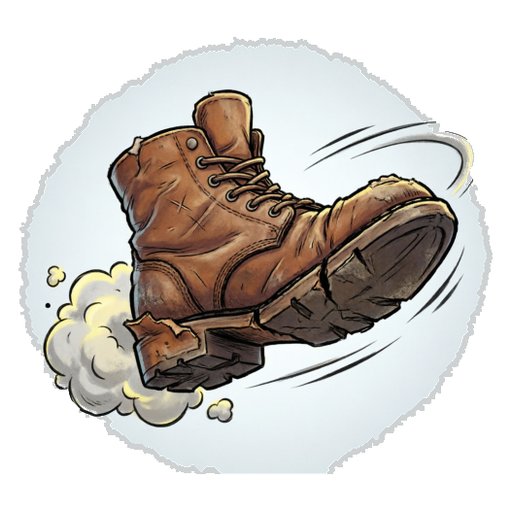
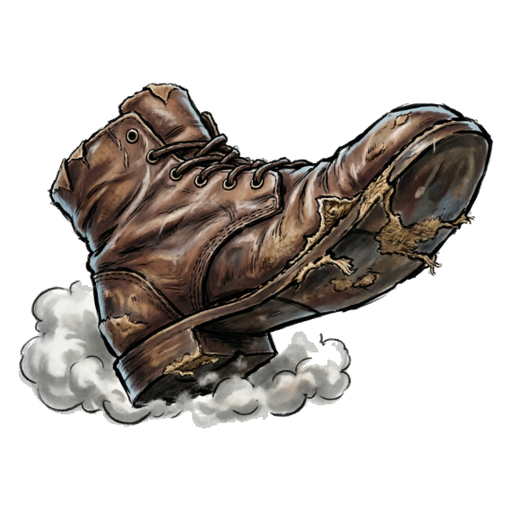
feat: медленный полёт, стопки подарков, новые руки и подарки

diff --git a/src/styles/gift-fly.css b/src/styles/gift-fly.css
@@ -15,7 +15,7 @@
   width: 0;
   height: 0;
   transform: translate(-50%, -50%);
-  animation: giftFade 60s linear forwards;
+  animation: giftFade 150s linear forwards;
 }
 
 /* --- сам подарок --- */
@@ -25,11 +25,11 @@
   left: 0;
   top: 0;
   transform: translate(-50%, -50%);
-  animation: giftFly var(--fly-ms, 1500ms) cubic-bezier(.25, .8, .3, 1) both;
+  animation: giftFly var(--fly-ms, 2400ms) cubic-bezier(.25, .8, .3, 1) both;
 }
 
 .gift-fly--thrown .gift-fly__body {
-  animation: giftThrow var(--fly-ms, 1500ms) cubic-bezier(.3, .7, .4, 1) both;
+  animation: giftThrow var(--fly-ms, 2400ms) cubic-bezier(.3, .7, .4, 1) both;
 }
 
 .gift-fly__icon {
@@ -103,7 +103,7 @@
   margin: -3px 0 0 -3px;
   border-radius: 50%;
   background: radial-gradient(circle, #fff6d5 0%, rgba(255, 200, 90, .85) 45%, transparent 70%);
-  animation: giftSpark var(--fly-ms, 1500ms) ease-out both;
+  animation: giftSpark var(--fly-ms, 2400ms) ease-out both;
 }
 .gift-fly__spark:nth-child(2) { animation-delay: 70ms;  opacity: .75; }
 .gift-fly__spark:nth-child(3) { animation-delay: 150ms; opacity: .5; }
@@ -161,12 +161,12 @@
 /* --- подарок лежит рядом и тихо покачивается --- */
 
 .gift-fly.is-landed .gift-fly__body {
-  animation: giftFly var(--fly-ms, 1500ms) cubic-bezier(.25, .8, .3, 1) both,
-             giftRest 3.2s ease-in-out var(--fly-ms, 1500ms) infinite;
+  animation: giftFly var(--fly-ms, 2400ms) cubic-bezier(.25, .8, .3, 1) both,
+             giftRest 3.2s ease-in-out var(--fly-ms, 2400ms) infinite;
 }
 .gift-fly--thrown.is-landed .gift-fly__body {
-  animation: giftThrow var(--fly-ms, 1500ms) cubic-bezier(.3, .7, .4, 1) both,
-             giftRest 3.2s ease-in-out var(--fly-ms, 1500ms) infinite;
+  animation: giftThrow var(--fly-ms, 2400ms) cubic-bezier(.3, .7, .4, 1) both,
+             giftRest 3.2s ease-in-out var(--fly-ms, 2400ms) infinite;
 }
 
 @keyframes giftRest {
@@ -177,7 +177,7 @@
 /* --- через минуту тает --- */
 
 @keyframes giftFade {
-  0%, 92%  { opacity: 1; }
+  0%, 95%  { opacity: 1; }
   100%     { opacity: 0; transform: translate(-50%, -70%) scale(.7); }
 }
 
@@ -200,7 +200,7 @@
   margin: -31px 0 0 -31px;
   border-radius: 50%;
   background: radial-gradient(circle, rgba(255, 235, 190, .45) 0%, transparent 68%);
-  animation: giftHalo var(--fly-ms, 1500ms) ease-out both;
+  animation: giftHalo var(--fly-ms, 2400ms) ease-out both;
   pointer-events: none;
 }
 @keyframes giftHalo {
@@ -215,7 +215,7 @@
   width: 8px;
   height: 8px;
   margin: -4px 0 0 -4px;
-  animation: giftSparkTrail var(--fly-ms, 1500ms) ease-out both;
+  animation: giftSparkTrail var(--fly-ms, 2400ms) ease-out both;
 }
 .gift-fly__spark:nth-child(2) { animation-delay: 120ms; opacity: .8; }
 .gift-fly__spark:nth-child(3) { animation-delay: 250ms; opacity: .55; }
@@ -246,7 +246,7 @@
   margin-left: -20px;
   border-radius: 50%;
   background: radial-gradient(ellipse, rgba(0, 0, 0, .5), transparent 70%);
-  animation: giftShadow var(--fly-ms, 1500ms) ease-in both;
+  animation: giftShadow var(--fly-ms, 2400ms) ease-in both;
 }
 @keyframes giftShadow {
   0%   { opacity: 0;   transform: scale(.2); }

diff --git a/src/features/room/GiftFxLayer.tsx b/src/features/room/GiftFxLayer.tsx
@@ -10,8 +10,8 @@ const SPLATTER_GIFT_IDS = new Set(["rotten_tomato", "egg"]);
 const THROWN_GIFT_IDS = new Set(["rotten_tomato", "egg", "snowball"]);
 
 /** Сколько подарок летит и сколько потом лежит рядом с получателем. */
-const FLY_MS = 900;
-const LIFE_MS = 60_000;
+const FLY_MS = 2400;
+const LIFE_MS = 150_000;
 
 type Point = { x: number; y: number };
 
@@ -33,7 +33,8 @@ function findPoint(root: HTMLElement, vkId: number | null | undefined): Point | 
 }
 
 function FlyingGift(
-  { gift, root, djId }: { gift: GiftEvent; root: HTMLElement | null; djId?: number | null },
+  { gift, root, djId, slot, toDj }:
+  { gift: GiftEvent; root: HTMLElement | null; djId?: number | null; slot: number; toDj: boolean },
 ) {
   const iconUrl = giftIconUrl(gift.gift_id);
   const [from, setFrom] = useState<Point | null>(null);
@@ -47,10 +48,19 @@ function FlyingGift(
     const target = gift.to_vk_id ?? djId ?? null;
     const b = findPoint(root, target);
 
-    // если цели в зале нет, кладём подарок к пульту, а не к дарителю
-    setTo(b ?? { x: root.clientWidth / 2, y: root.clientHeight * 0.42 });
+    /**
+     * Подарки не сваливаются в одну точку: каждый следующий ложится
+     * рядом с предыдущим. Угощение диджею выкладывается справа от него,
+     * как на барной стойке, остальным — веером над головой.
+     */
+    const base = b ?? { x: root.clientWidth / 2, y: root.clientHeight * 0.42 };
+    const shift = toDj
+      ? { x: 34 + slot * 26, y: 6 + (slot % 2) * 10 }
+      : { x: (slot % 2 ? 1 : -1) * (14 + Math.floor(slot / 2) * 20), y: -slot * 7 };
+
+    setTo({ x: base.x + shift.x, y: base.y + shift.y });
     setFrom(a ?? null);
-  }, [root, gift.from_vk_id, gift.to_vk_id, djId]);
+  }, [root, gift.from_vk_id, gift.to_vk_id, djId, slot, toDj]);
 
   useEffect(() => {
     const t = setTimeout(() => setLanded(true), FLY_MS);
@@ -137,11 +147,26 @@ export function GiftFxLayer(
 
   useEffect(() => setRoot(ref.current), []);
 
+  // считаем, какой по счёту подарок лёг на каждого игрока
+  const slots = new Map<string, number>();
+
   return (
     <div ref={ref} className="gift-layer">
-      {gifts.map((g) => (
-        <FlyingGift key={g.id} gift={g} root={root} djId={djId} />
-      ))}
+      {gifts.map((g) => {
+        const target = String(g.to_vk_id ?? djId ?? "dj");
+        const slot = slots.get(target) ?? 0;
+        slots.set(target, slot + 1);
+        return (
+          <FlyingGift
+            key={g.id}
+            gift={g}
+            root={root}
+            djId={djId}
+            slot={slot}
+            toDj={g.to_vk_id == null}
+          />
+        );
+      })}
     </div>
   );
 }

diff --git a/src/store/useAppStore.ts b/src/store/useAppStore.ts
@@ -26,7 +26,8 @@ interface AppState {
   removeActiveGift: (id: string) => void;
 }
 
-const GIFT_LIFETIME_MS = 60_000;
+/** Подарок лежит в зале две с половиной минуты. */
+const GIFT_LIFETIME_MS = 150_000;
 
 export const useAppStore = create<AppState>((set) => ({
   profile: null,
@@ -67,7 +68,7 @@ export const useAppStore = create<AppState>((set) => ({
     set((s) => (s.profile ? { profile: { ...s.profile, coins: s.profile.coins + delta } } : {})),
   addActiveGift: (g) => {
     set((s) => ({ activeGifts: [...s.activeGifts, g] }));
-    // подарок сам себя убирает максимум через минуту — не нужно хранить историю в UI
+    // подарок сам себя убирает через две с половиной минуты
     setTimeout(() => {
       set((s) => ({ activeGifts: s.activeGifts.filter((x) => x.id !== g.id) }));
     }, GIFT_LIFETIME_MS);
